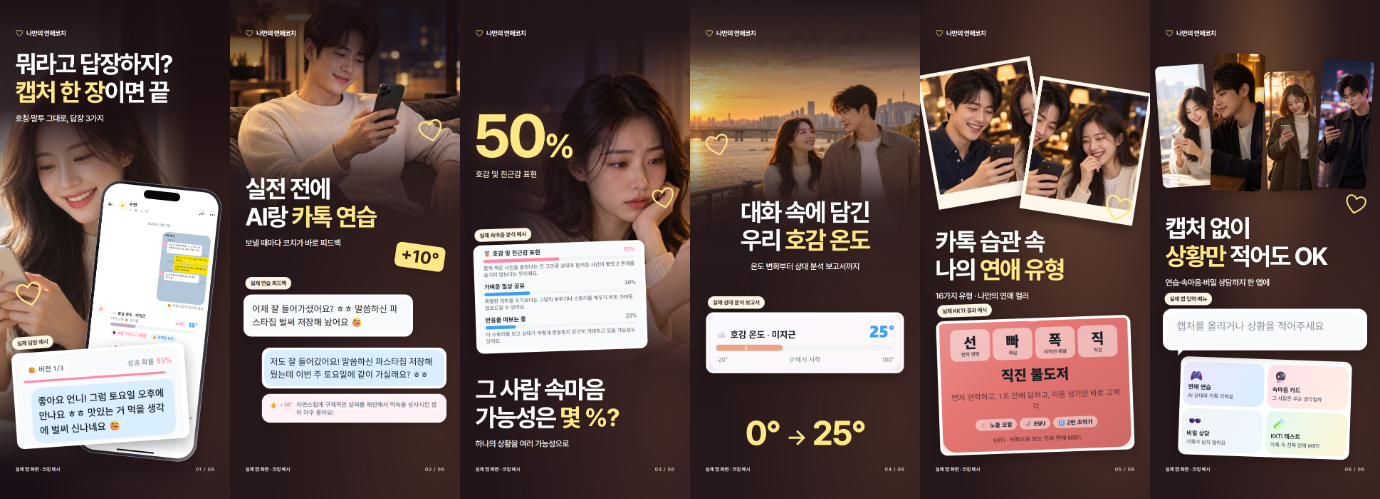
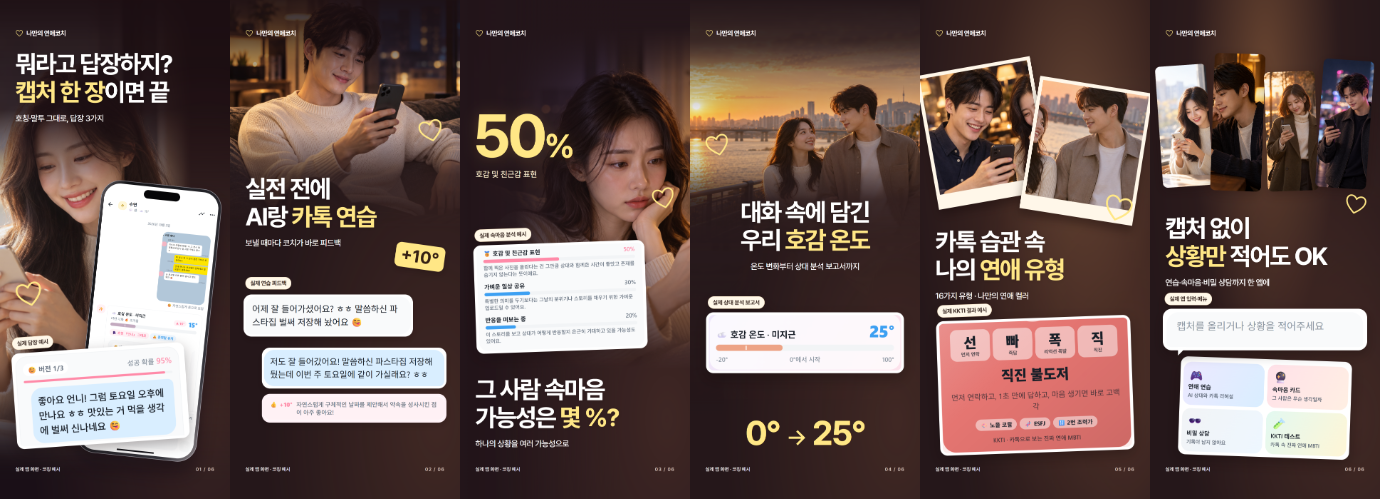
design: 4차 5번 장 폴라로이드 두 장을 서로 다른 사진으로

Changed region(s): [[0.7167, 0.1503, 0.8413, 0.4208]]

diff --git a/docs/store-assets/candidates-20261025-v4/html/P2-5.html b/docs/store-assets/candidates-20261025-v4/html/P2-5.html
@@ -110,4 +110,4 @@ h1>span{display:block;white-space:nowrap}em{font-style:normal;color:var(--accent
  .s6 .tile.a{top:315px;height:485px}.s6 .tile.b{top:290px;height:520px}.s6 .tile.c{top:345px;height:465px}.s6 .tile.d{top:310px;height:490px}
  .s6 header{top:850px}.s6 .heart{top:770px;width:105px;height:105px}.input-feature{top:1260px;width:1060px;left:115px}.s6 .feature{bottom:225px;width:850px;left:220px}
 }
-</style><div class="stage s5" data-page="5"><div class="polaroid a"><div class="photo-window"><img class="" src="../../candidates-20261025/_photos/07-friends.png" alt="AI로 생성한 가상 한국인 성인 라이프스타일 사진"></div></div><div class="polaroid b"><div class="photo-window"><img class="" src="../../candidates-20261025/_photos/07-friends.png" alt="AI로 생성한 가상 한국인 성인 라이프스타일 사진"></div></div><div class="feature "><div class="caption" data-contrast>실제 KKTI 결과 예시</div><div class="card"><div class="crop" style="--cx:45;--cy:630;--cw:1200;--ch:820"><img data-app="true" src="../../ios-6.7/5-kkti.png" alt="실제 앱 원본 캡처 확대"></div></div></div><div class="shade"></div><div class="glow"></div><div class="brand" data-contrast><svg viewBox="0 0 200 200" fill="none" xmlns="http://www.w3.org/2000/svg"><path d="M100 169C72 147 21 109 22 66C23 20 77 14 100 53C125 12 179 24 178 67C177 111 125 151 100 169Z" stroke="currentColor" stroke-width="12" stroke-linecap="round" stroke-linejoin="round"/></svg>나만의 연애코치</div><header><h1><span>카톡 습관 속</span><span>나의 <em>연애 유형</em></span></h1><p class="sub">16가지 유형 · 나만의 연애 컬러</p></header><div class="heart"><svg viewBox="0 0 200 200" fill="none" xmlns="http://www.w3.org/2000/svg"><path d="M100 169C72 147 21 109 22 66C23 20 77 14 100 53C125 12 179 24 178 67C177 111 125 151 100 169Z" stroke="currentColor" stroke-width="12" stroke-linecap="round" stroke-linejoin="round"/></svg></div><div class="footer" data-contrast><span>실제 앱 화면 · 코칭 예시</span><span class="page">05 / 06</span></div></div><script>const s=innerWidth/1290;document.querySelector('.stage').style.setProperty('--scale',s);document.querySelector('.stage').style.setProperty('--h',innerHeight/s+'px');</script></html>
+</style><div class="stage s5" data-page="5"><div class="polaroid a"><div class="photo-window"><img class="" src="../../candidates-20261025/_photos/07-friends.png" alt="AI로 생성한 가상 한국인 성인 라이프스타일 사진"></div></div><div class="polaroid b"><div class="photo-window"><img class="" src="../../candidates-20261025/_photos/06-riverside-couple.png" alt="AI로 생성한 가상 한국인 성인 라이프스타일 사진"></div></div><div class="feature "><div class="caption" data-contrast>실제 KKTI 결과 예시</div><div class="card"><div class="crop" style="--cx:45;--cy:630;--cw:1200;--ch:820"><img data-app="true" src="../../ios-6.7/5-kkti.png" alt="실제 앱 원본 캡처 확대"></div></div></div><div class="shade"></div><div class="glow"></div><div class="brand" data-contrast><svg viewBox="0 0 200 200" fill="none" xmlns="http://www.w3.org/2000/svg"><path d="M100 169C72 147 21 109 22 66C23 20 77 14 100 53C125 12 179 24 178 67C177 111 125 151 100 169Z" stroke="currentColor" stroke-width="12" stroke-linecap="round" stroke-linejoin="round"/></svg>나만의 연애코치</div><header><h1><span>카톡 습관 속</span><span>나의 <em>연애 유형</em></span></h1><p class="sub">16가지 유형 · 나만의 연애 컬러</p></header><div class="heart"><svg viewBox="0 0 200 200" fill="none" xmlns="http://www.w3.org/2000/svg"><path d="M100 169C72 147 21 109 22 66C23 20 77 14 100 53C125 12 179 24 178 67C177 111 125 151 100 169Z" stroke="currentColor" stroke-width="12" stroke-linecap="round" stroke-linejoin="round"/></svg></div><div class="footer" data-contrast><span>실제 앱 화면 · 코칭 예시</span><span class="page">05 / 06</span></div></div><script>const s=innerWidth/1290;document.querySelector('.stage').style.setProperty('--scale',s);document.querySelector('.stage').style.setProperty('--h',innerHeight/s+'px');</script></html>
